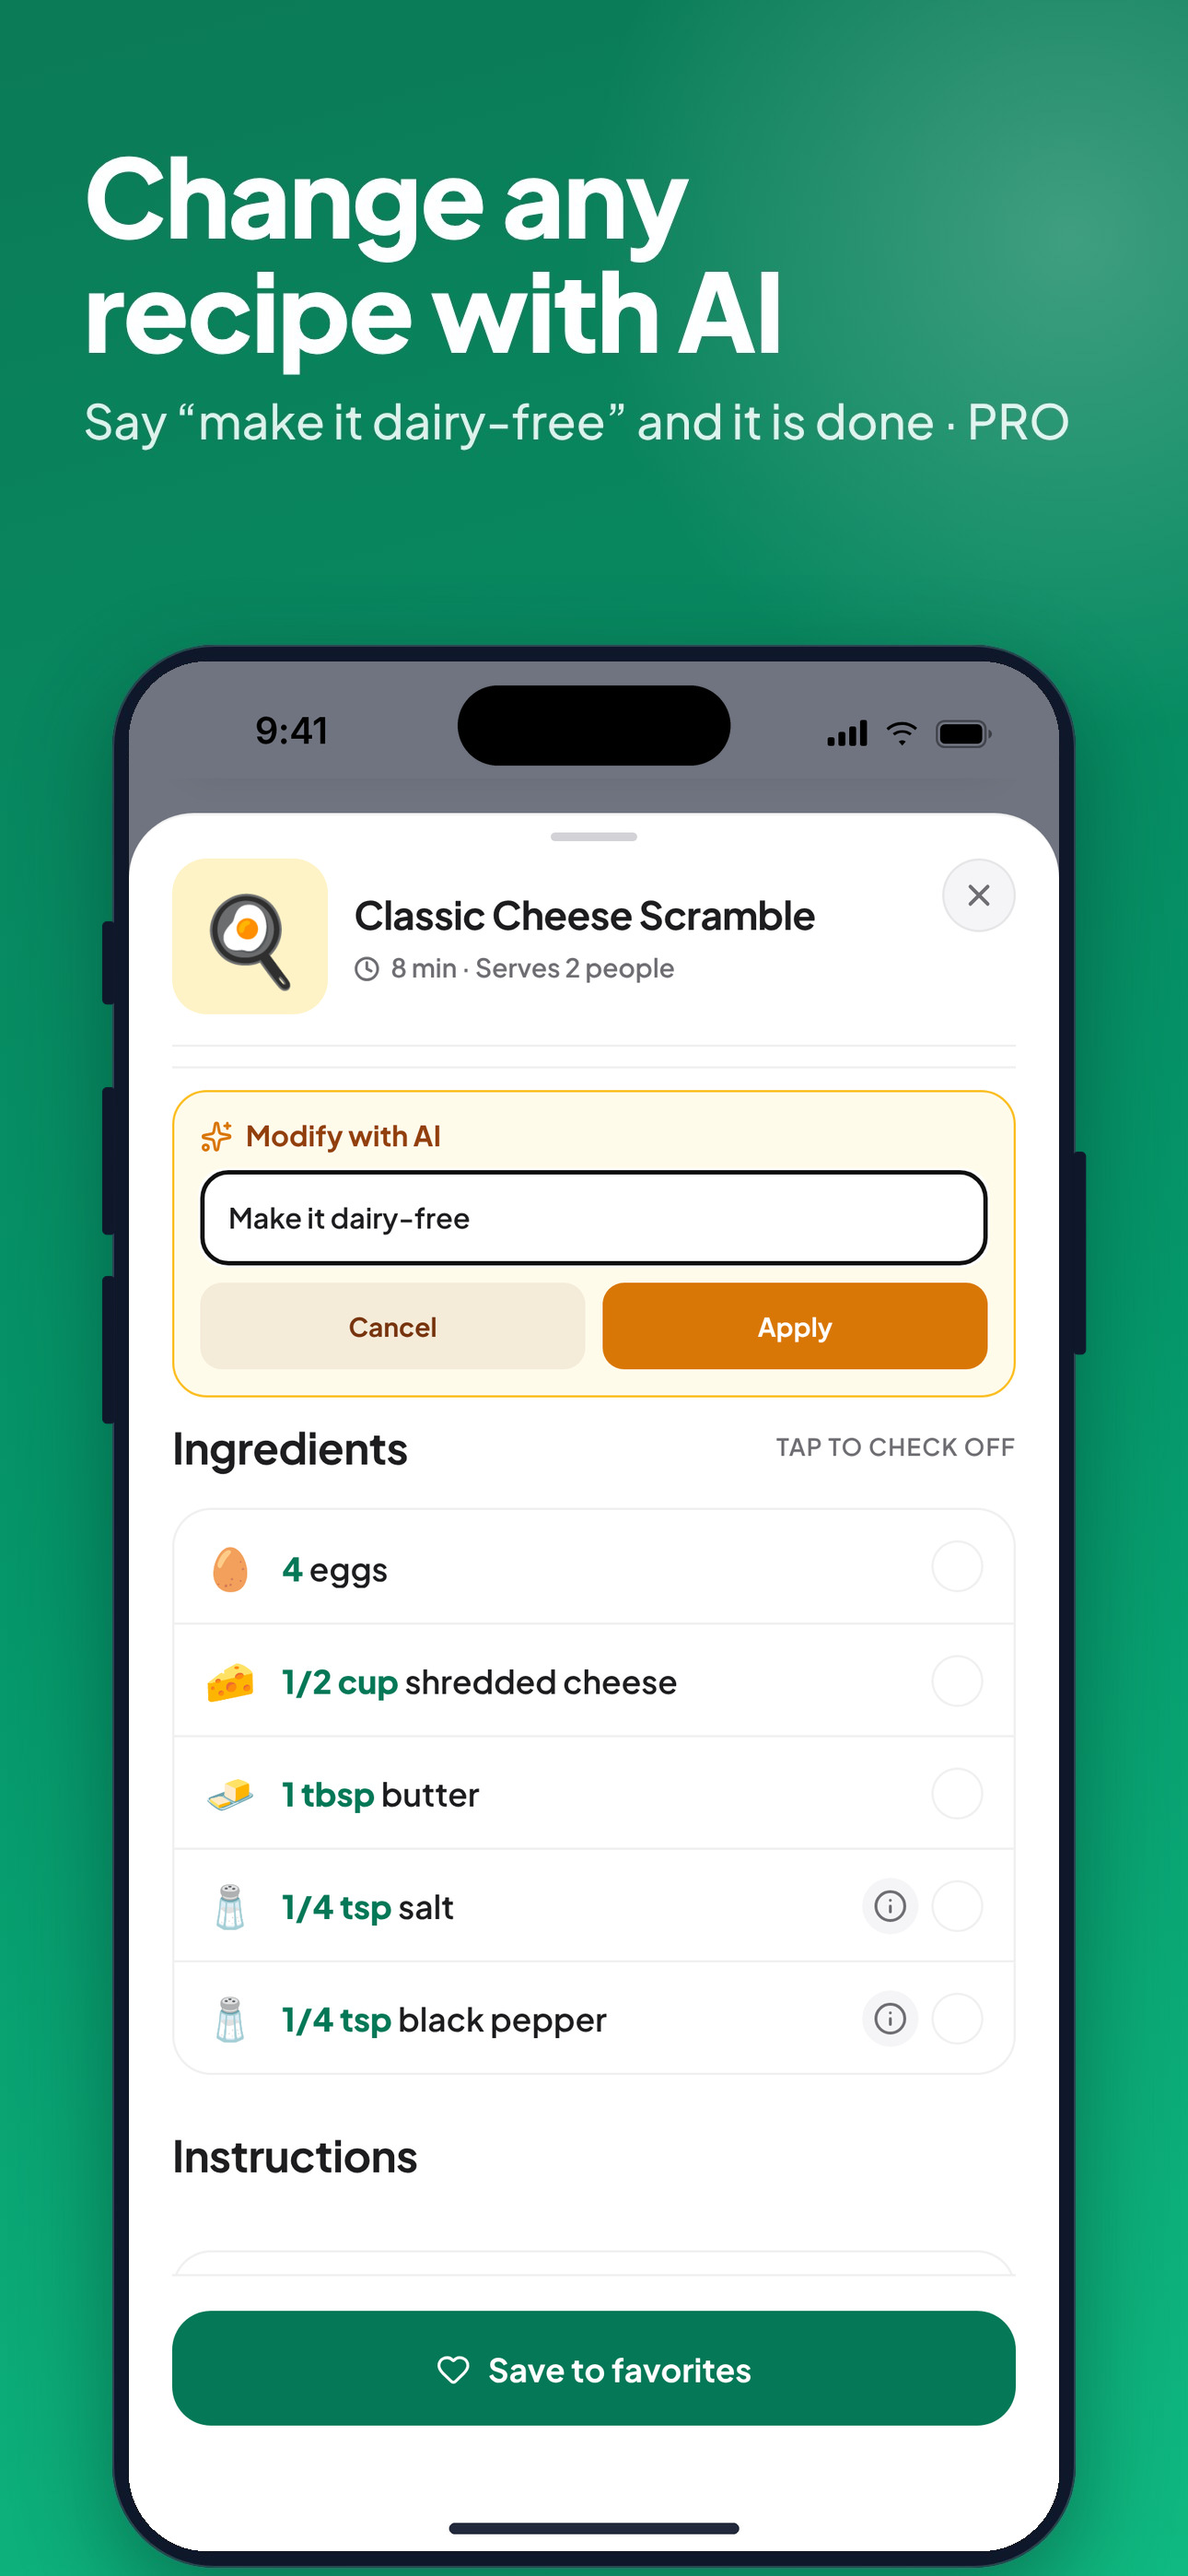
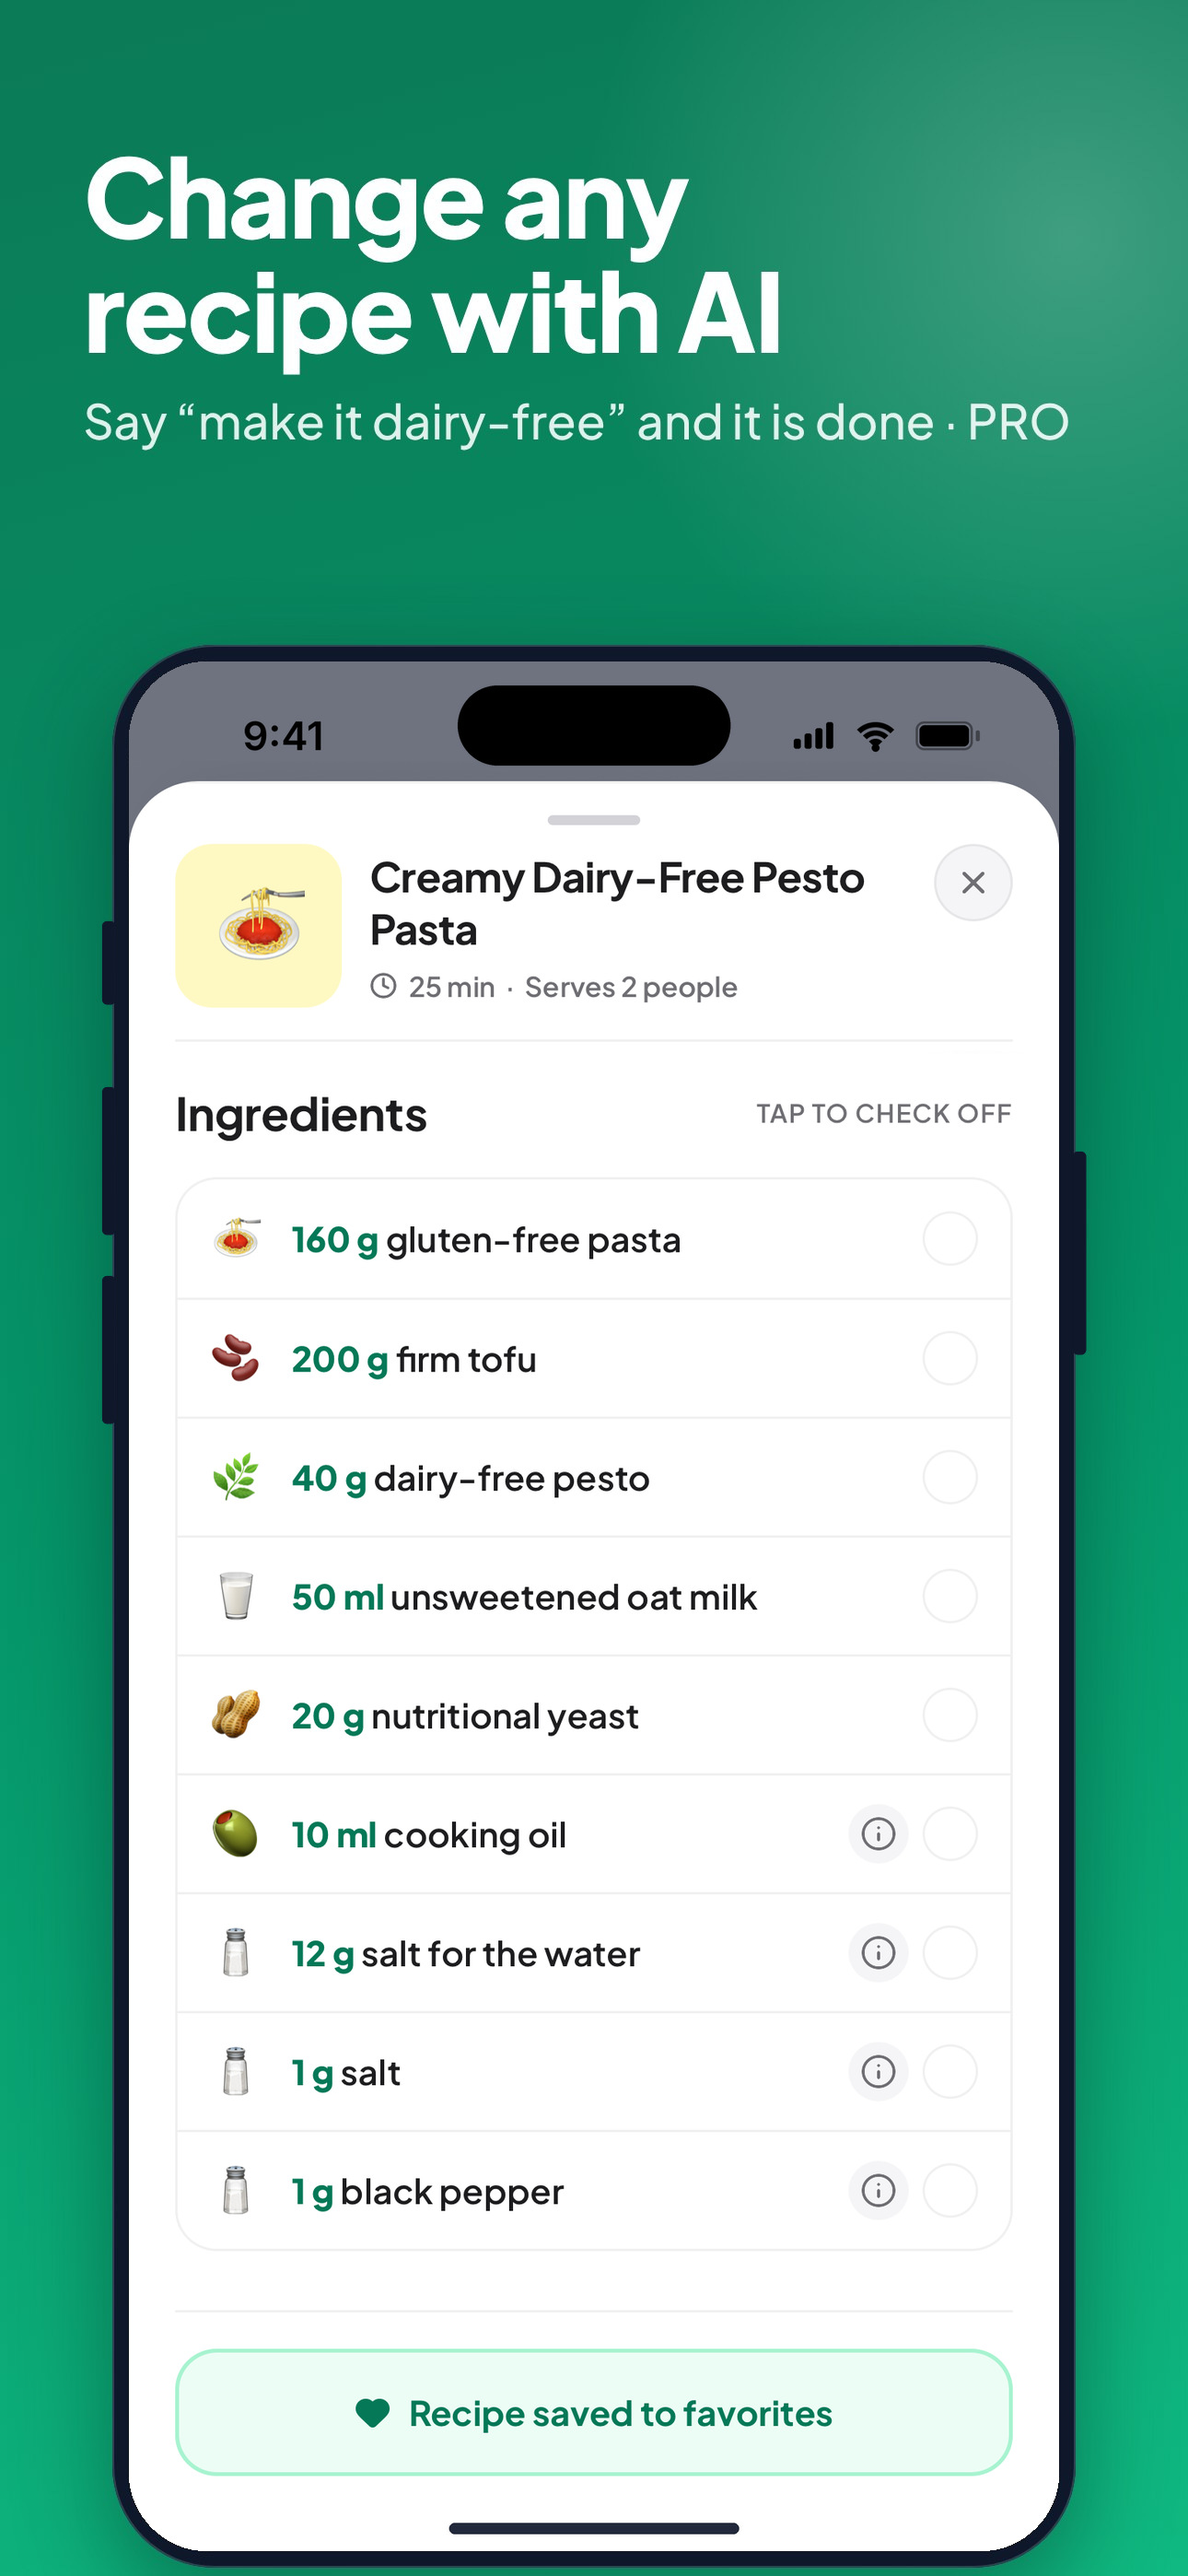
Store slide 07 (EN): real iPhone screenshot of Modify with AI (dairy-free); README notes the real-screenshot pipeline
Claude-Session: https://claude.ai/code/session_01RtbBoobjW7cVhPz1v3aXm1

diff --git a/docs/store/screenshots/README.md b/docs/store/screenshots/README.md
@@ -36,3 +36,12 @@ Known limits, to fix before submitting:
    the green background, caption and frame as they are (1290 x 2796). `tools/frame-mask.png` is the screen shape inside the frame.
 
 Source photo for slide 01: `source/ai-fridge-argolink.png` (AI-generated; keep the prompt, date and the site's terms with it).
+
+
+## Real iPhone screenshots (EN, iOS 6.9")
+
+Slides 01-07 in `final/ios-6.9/en/` are made from real iPhone 16 Pro screenshots (originals in `source/iphone/`, run in Expo Go with the
+PRO testing switch on for the PRO screens). `tools/clean_iphone.py <shot.png> <out.png> [top-rows]` swaps the live status bar for a clean
+9:41 and fits the screen to the frame's proportions; `tools/compose.py` then puts it in the slide. The Expo Go dev button (blue gear, top right)
+was retouched out by hand where it showed: patches copied from a clean area of the same screen, or mirrored from the other side of a symmetric card.
+The PL slides in `final/ios-6.9/pl/` are still the older web-captured ones.
